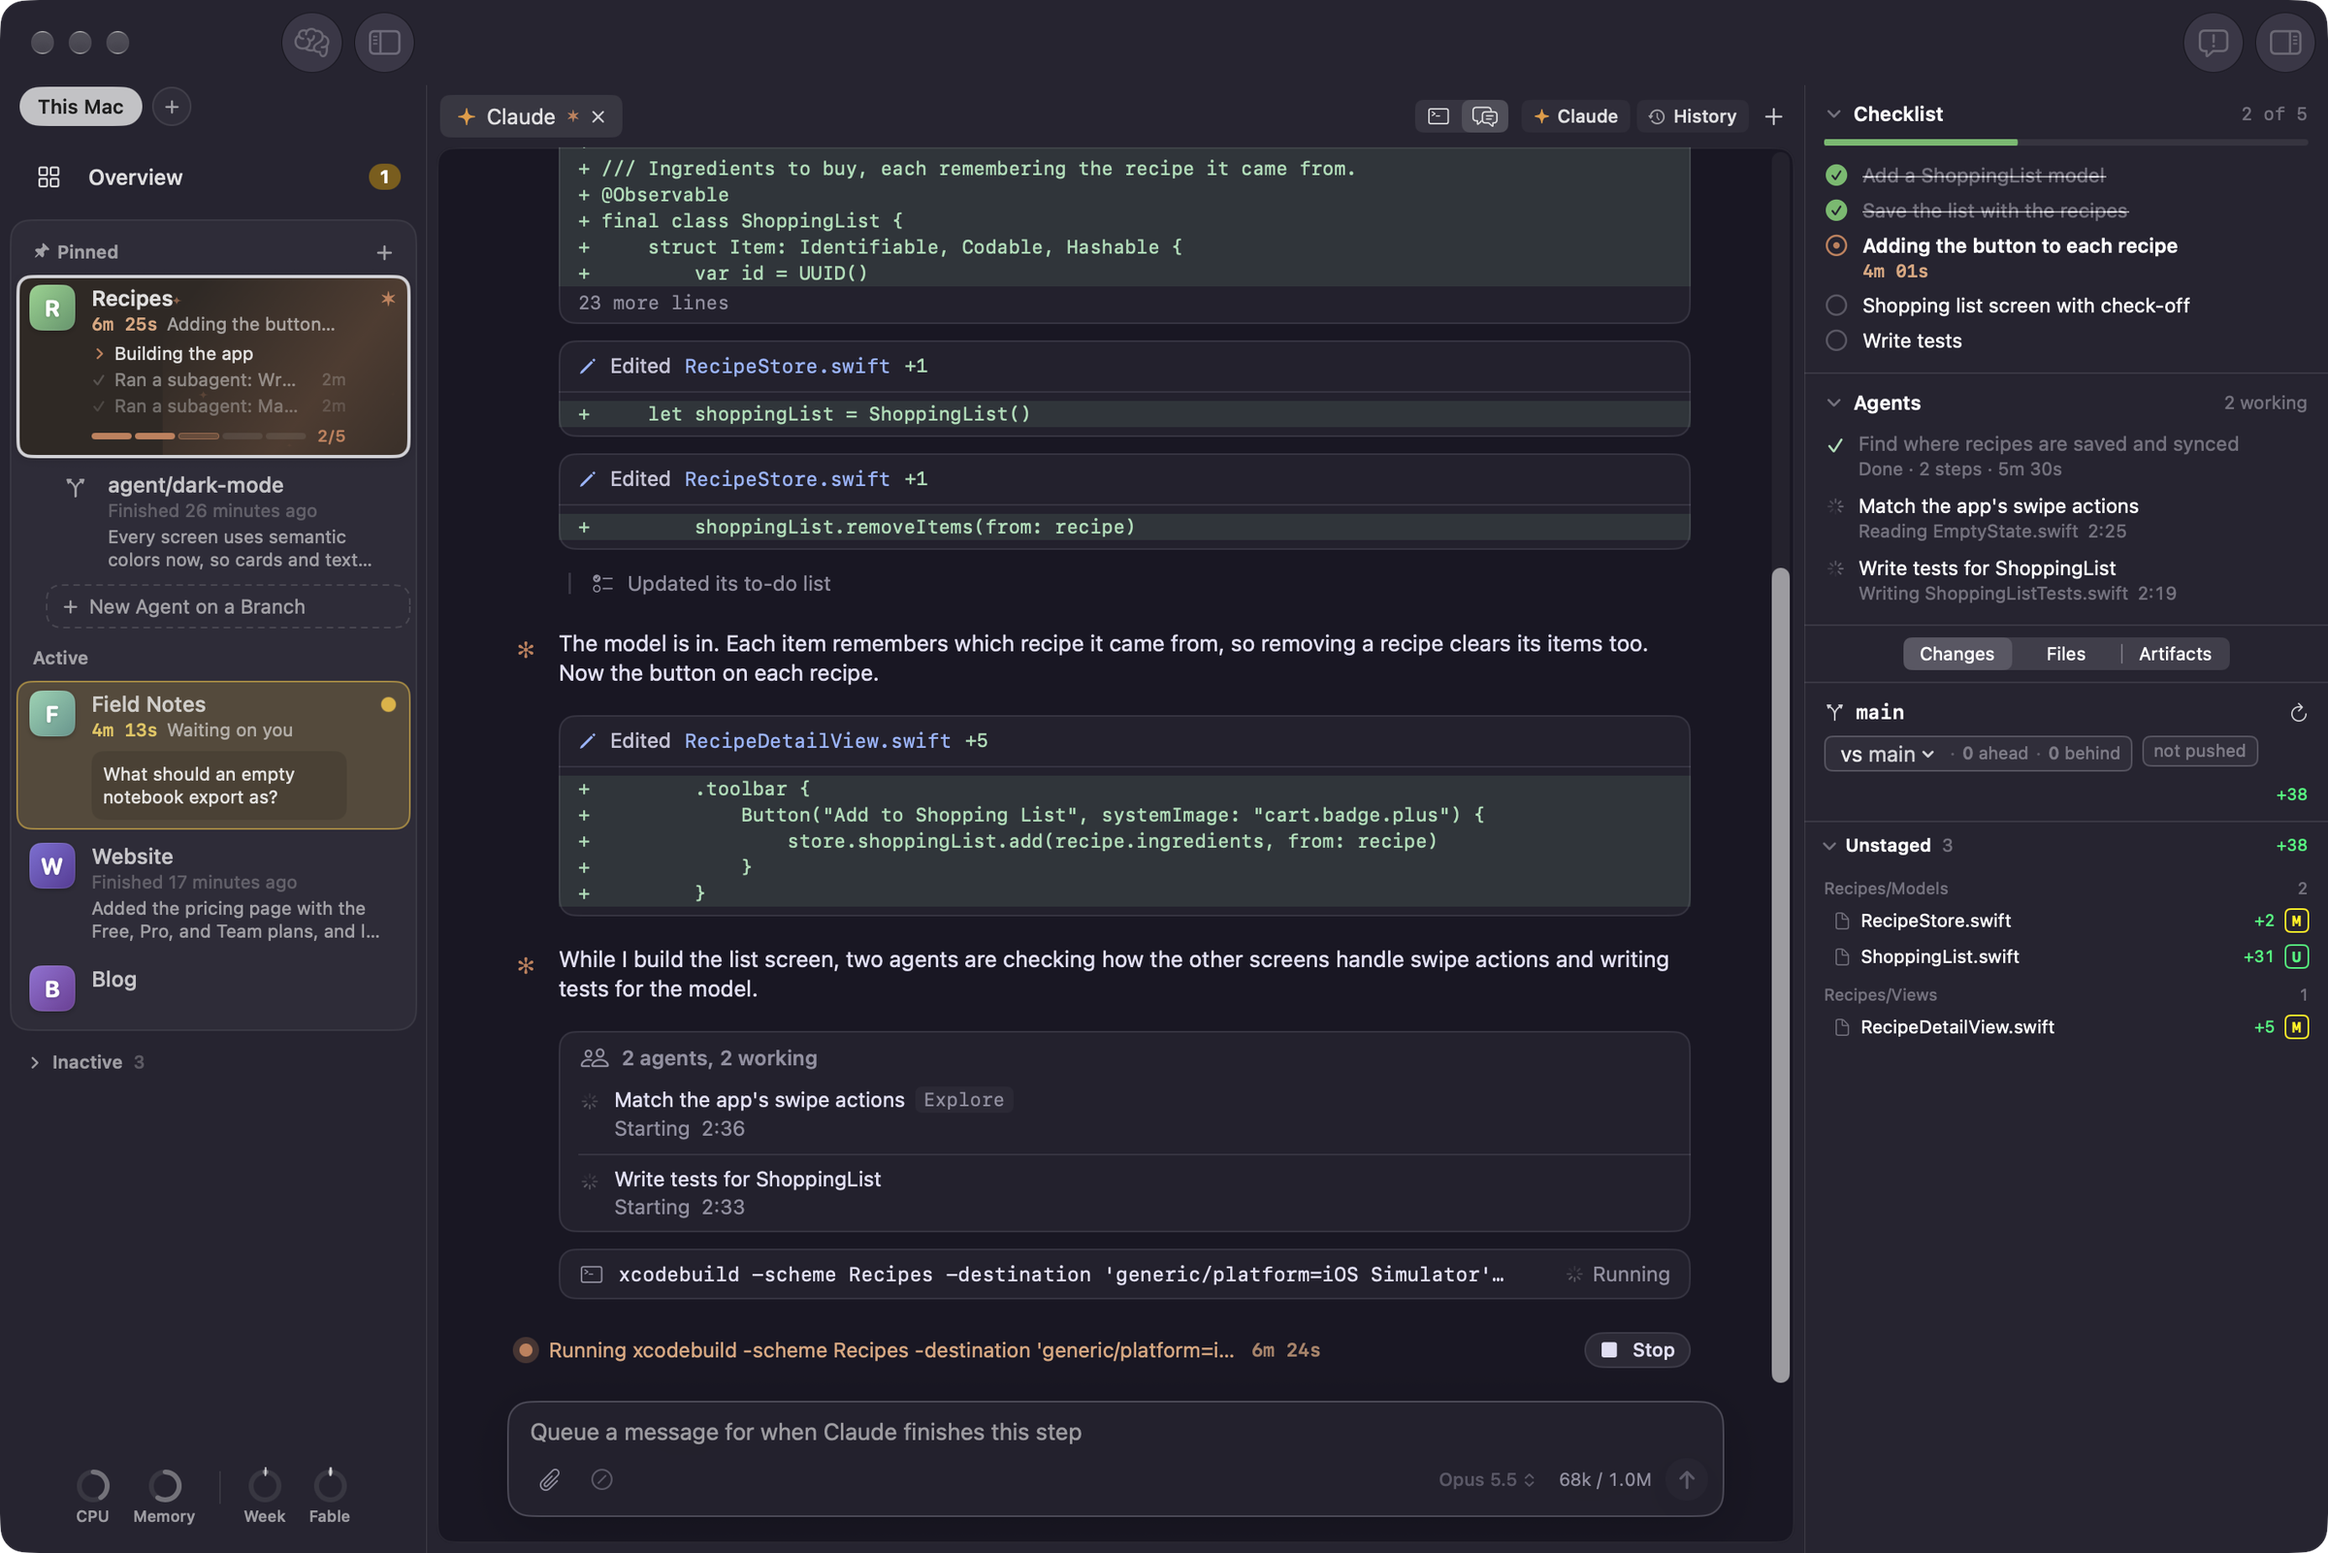
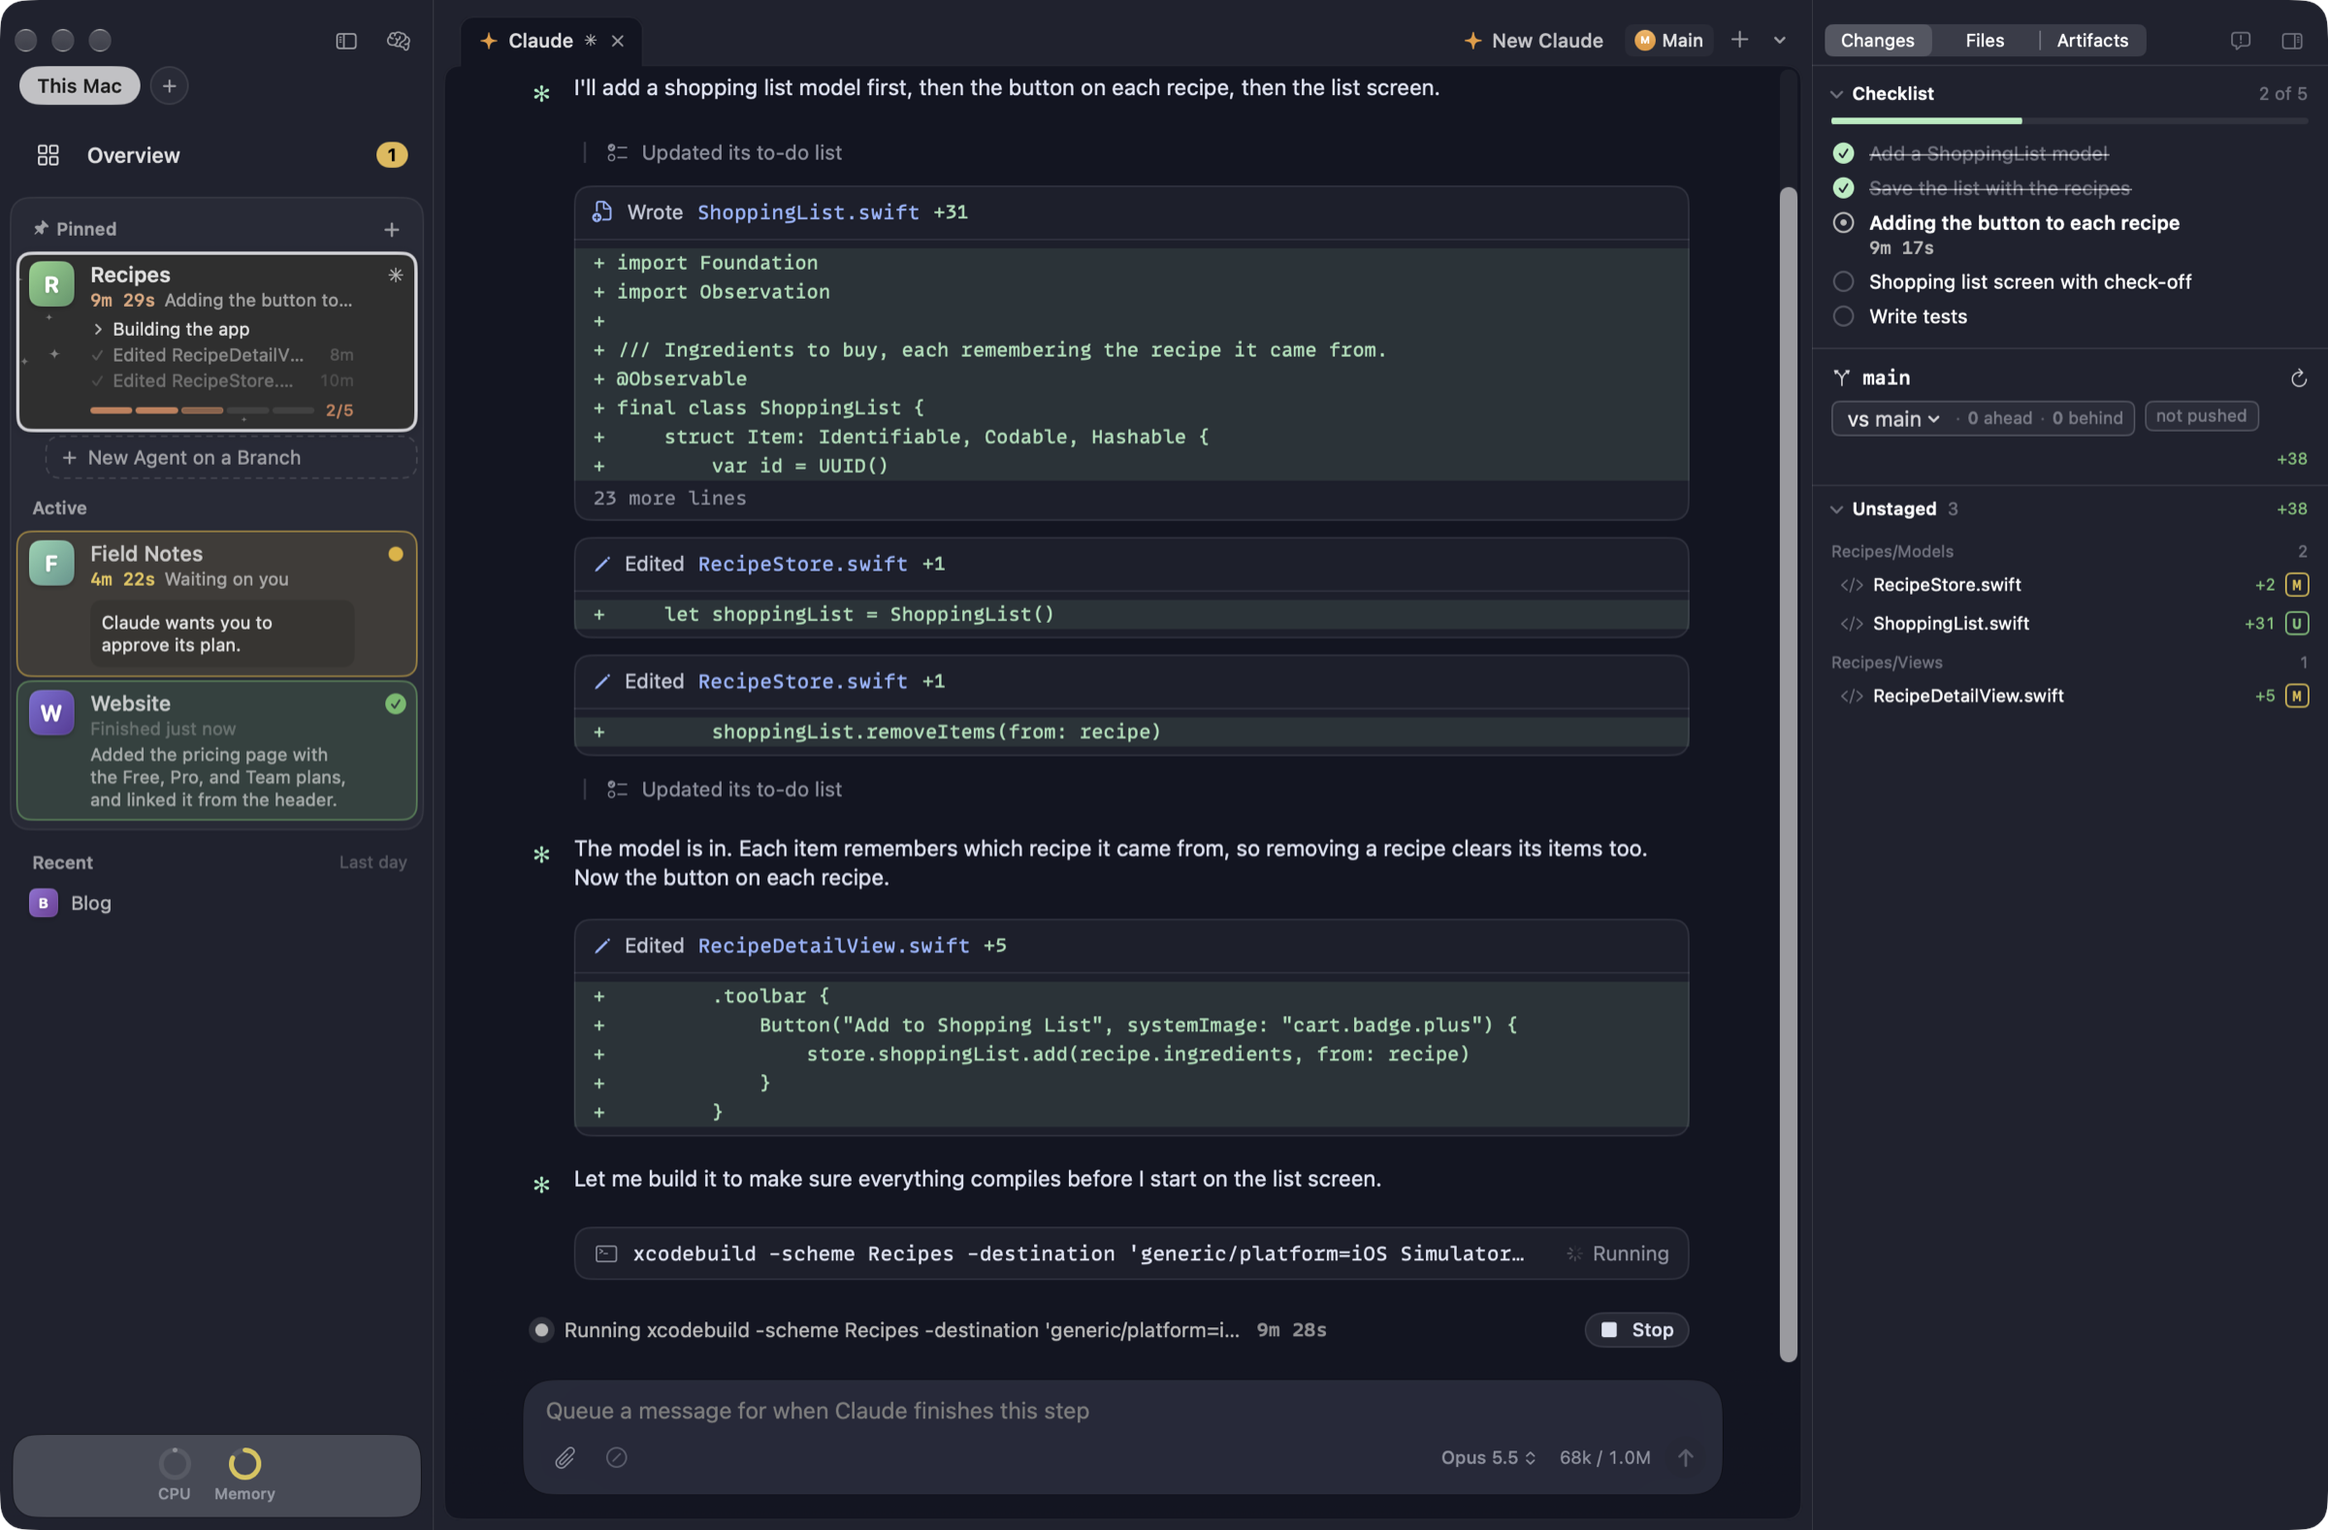
Update the README and images for the built-in themes
New hero, start page, and welcome shots in the default themes, a grid of six built-in themes in place of the Ghostty one, and text for the plan in chat and closing tabs in bulk. Adds images for the 0.8.4 release notes.

diff --git a/README.md b/README.md
@@ -17,14 +17,14 @@
 </p>
 
 <p align="center">
-  <img src="images/mac-chat.png" alt="Workbench on the Mac with three projects in different states: Recipes working through a five-step checklist with two subagents running and three changed files in the right panel, Field Notes waiting on a question, and Website finished with a one-line recap">
+  <img src="images/mac-chat.png" alt="Workbench on the Mac in the Northern Lights theme with three projects in different states: Recipes working through a five-step checklist with its edits in the chat and three changed files in the right panel, Field Notes waiting for its plan to be approved, and Website finished with a one-line recap">
 </p>
 
 ---
 
 ## Terminal or chat, same session
 
-Claude Code runs in a real terminal in every Claude tab, built on Ghostty, so it uses your font, theme, and keybindings. Press ⌥⌘T and the same session turns into a chat: edits show as diffs, commands fold their output away, and questions and permission prompts become cards with real buttons. It's still Claude Code underneath, so you can flip back any time. Pick which one new tabs open as in Settings > Claude.
+Claude Code runs in a real terminal in every Claude tab, built on Ghostty, so it uses your font and keybindings. Press ⌥⌘T and the same session turns into a chat: edits show as diffs, commands fold their output away, and questions and permission prompts become cards with real buttons. It's still Claude Code underneath, so you can flip back any time. Pick which one new tabs open as in Settings > Claude.
 
 The chat view has the touches you'd expect from a messaging app:
 
@@ -32,20 +32,21 @@ The chat view has the touches you'd expect from a messaging app:
 - **Claude's suggested next message** shows faintly in the empty message box. Press Right Arrow or Tab to take it.
 - **Slash commands autocomplete** as you type `/`: the built-in ones, your own, the project's, and your skills.
 - **Queued messages** can be edited, removed, or sent right away (Control-Return), like Ctrl+Return in the terminal.
+- **Claude's plan shows in the chat** when it asks you to approve one, with a Read the Plan button on the question card.
 - **Subagents get cards** that show what each one is doing right now. With the right panel hidden, the task list or the running agents stay pinned above the message box.
 - **The model and context** sit in the message box, like "Opus 5.5" and "76k / 1M". Click the model to switch.
 - **Compact or clear** from the / button, and Shift-Return for a new line.
 
 ## Every project gets its own workspace
 
-Add a project folder and Workbench gives it tabs for Claude, shells, files, diffs, and previews of your dev server, side by side. The sidebar shows each project's branch, pull request, and whether Claude is working, waiting on you, or done. Rest the pointer on a project to see what Claude is doing, what it's asking, and a one-line recap of what it last finished.
+Add a project folder and Workbench gives it tabs for Claude, shells, files, diffs, and previews of your dev server, side by side. The sidebar shows each project's branch, pull request, and whether Claude is working, waiting on you, or done. Under each project, the sidebar shows what Claude is doing, what it's asking, and a one-line recap of what it last finished.
 
 **Projects sort themselves.** Pin the ones you always want on top. Projects Claude is working in, or that you used in the last few hours, sit under Active. The ones from the last day are under Recent, and the rest fold away under Inactive until you use them again. Work Claude Code remembers from outside Workbench counts too.
 
 **Every project has a start page.** When a project has no tabs open, or you press +, you get a big Start Claude button, a shell, an agent on a new branch, your shortcuts, and your last few conversations to pick back up in one click.
 
 <p align="center">
-  <img src="images/mac-start.png" alt="A project's start page in Workbench: the project icon, a Start Claude button, Shell, Agent on a Branch, two shortcuts, and four recent conversations to pick back up">
+  <img src="images/mac-start.jpg" alt="A project's start page in Workbench in the Clean Slate theme: the project icon, a blue Start Claude button, Shell, Agent on a Branch, and four recent conversations to pick back up">
 </p>
 
 ## See the changes as Claude makes them
@@ -62,12 +63,14 @@ Start an agent with a prompt and Workbench gives it a fresh git worktree on its 
 
 **Brain Dump** (⌥⌘N, or the brain button at the top of the sidebar) starts several at once. Describe everything you want done across your projects, and Claude splits it into one task per project, each with a branch and a prompt you can edit. Nothing starts until you click Start.
 
-## Looks like your terminal
+## Pick your colors
 
-Workbench takes on your Ghostty theme's colors for its sidebars, chat, and diffs, and switches between light and dark with your Mac. Here's the same session in Catppuccin Mocha, Catppuccin Latte, Dracula, Solarized Light, Gruvbox Dark, and Rosé Pine.
+Workbench comes with 36 color themes. Pick one for light mode and one for dark mode in Settings > General, and Workbench switches between them with your Mac. The terminal, sidebars, chat, and diffs all take the theme's colors, and its accent color shows up on buttons, checklists, and your messages in the chat. Clean Slate and Northern Lights are the defaults. If you'd rather use your Ghostty theme, that's an option too.
+
+Here's the same session in Clean Slate, Northern Lights, Oat Milk, Indigo Works, Sakura Note, and Hearth.
 
 <p align="center">
-  <img src="images/themes.png" alt="The same Workbench window in six terminal themes: Catppuccin Mocha, Catppuccin Latte, Dracula, Solarized Light, Gruvbox Dark, and Rosé Pine">
+  <img src="images/themes.png" alt="The same Workbench window in six built-in themes: Clean Slate, Northern Lights, Oat Milk, Indigo Works, Sakura Note, and Hearth">
 </p>
 
 ## Keep an eye on it from your iPhone
@@ -85,10 +88,10 @@ The iPhone app is in beta on TestFlight and needs iOS 27. It also runs as a full
 
 ## A welcome that sets you up
 
-The first time you open Workbench, it checks your Mac for the tools it uses, including whether Claude Code is signed in, and offers to sign you in right there. Then it asks whether you'd like Claude tabs as a terminal or a chat, matches your theme, suggests projects from the folders you've already used Claude Code in, and pairs your iPhone. Help > Welcome to Workbench shows it again.
+The first time you open Workbench, it checks your Mac for the tools it uses, including whether Claude Code is signed in, and offers to sign you in right there. Then it asks whether you'd like Claude tabs as a terminal or a chat, lets you pick a color theme, suggests projects from the folders you've already used Claude Code in, and pairs your iPhone. Help > Welcome to Workbench shows it again.
 
 <p align="center">
-  <img src="images/mac-welcome.png" alt="The Workbench welcome screen with the app icon, a short description, and a Get Started button">
+  <img src="images/mac-welcome.jpg" alt="The Workbench welcome screen with the app icon, a short description, and a Get Started button">
 </p>
 
 ## And a lot of small things
@@ -99,6 +102,7 @@ The first time you open Workbench, it checks your Mac for the tools it uses, inc
 - **Usage and costs.** See what your sessions would cost at API prices, by day, model, and project (⇧⌘U).
 - **One-click shortcuts.** Add tab shortcuts for commands you run all the time, and get a dev server button in JavaScript projects. Its ports show up so you can open a preview.
 - **Pick up where you left off.** Resume past conversations from Past Sessions (⌘Y) or a project's start page, and Workbench brings your tabs back when it relaunches.
+- **Close tabs in bulk.** Right-click a tab for Close Other Tabs, Close Tabs to the Right, or Close All Tabs.
 - **Your draft stays put.** Text in the message box is still there when you switch projects and come back.
 - **Menu bar status.** See what's working and what needs you without switching apps.
 - **Other Macs.** Pair a second Mac and work in its projects from the same sidebar: read and answer its sessions, start Claude tabs and agents, look at its changes, run its shortcuts, and clean up its agents. Copy the pairing link from Settings > Remote Access on one Mac, then click **+** next to This Mac on the other. The [support page](support.md#using-another-mac) has the steps.
